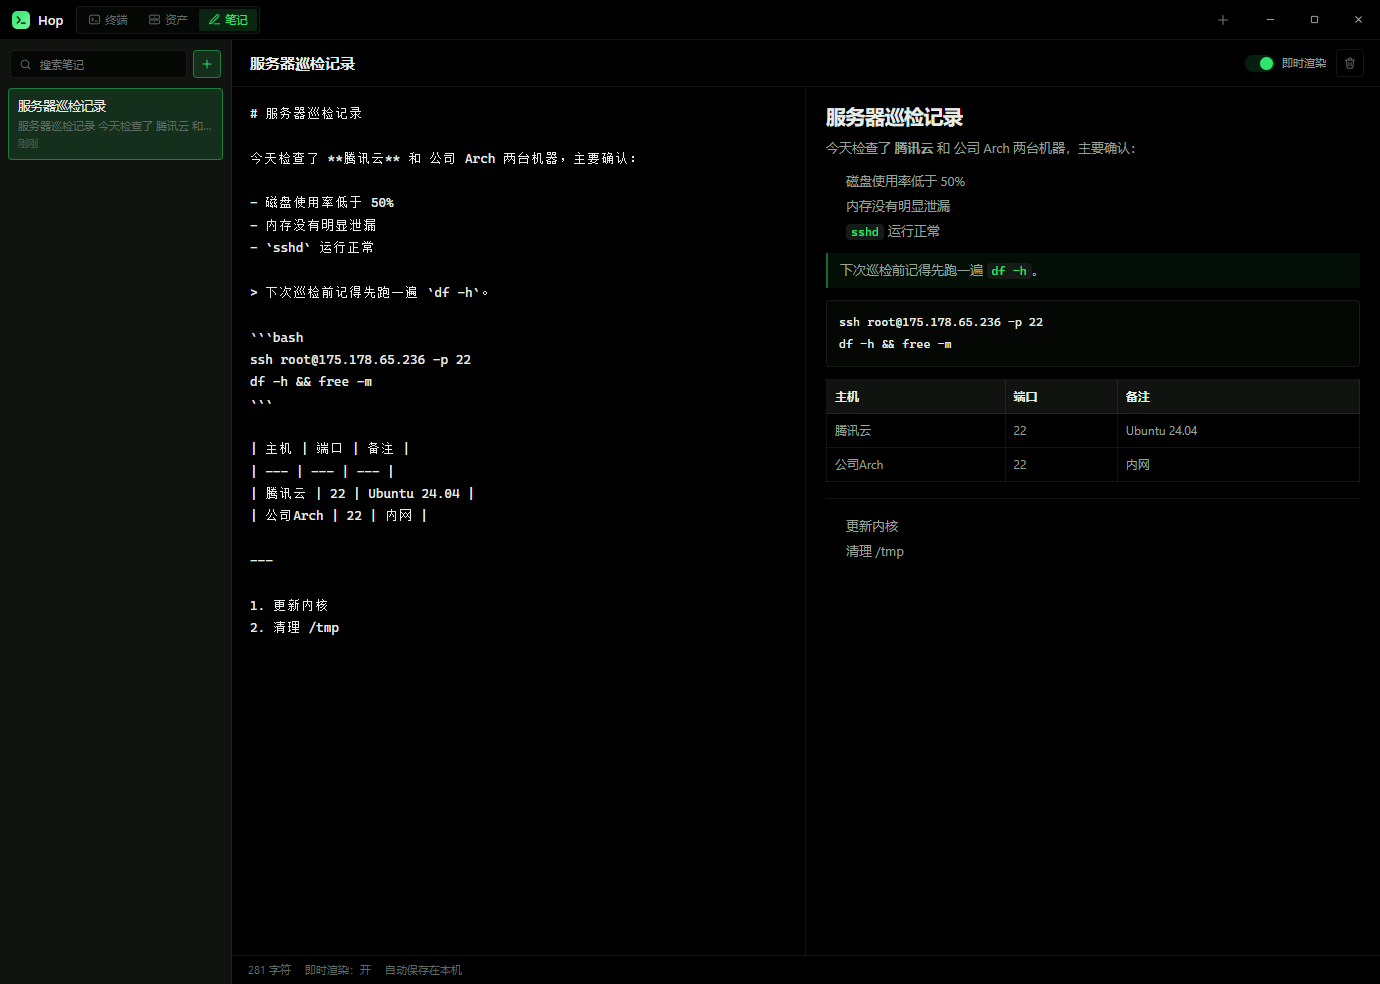
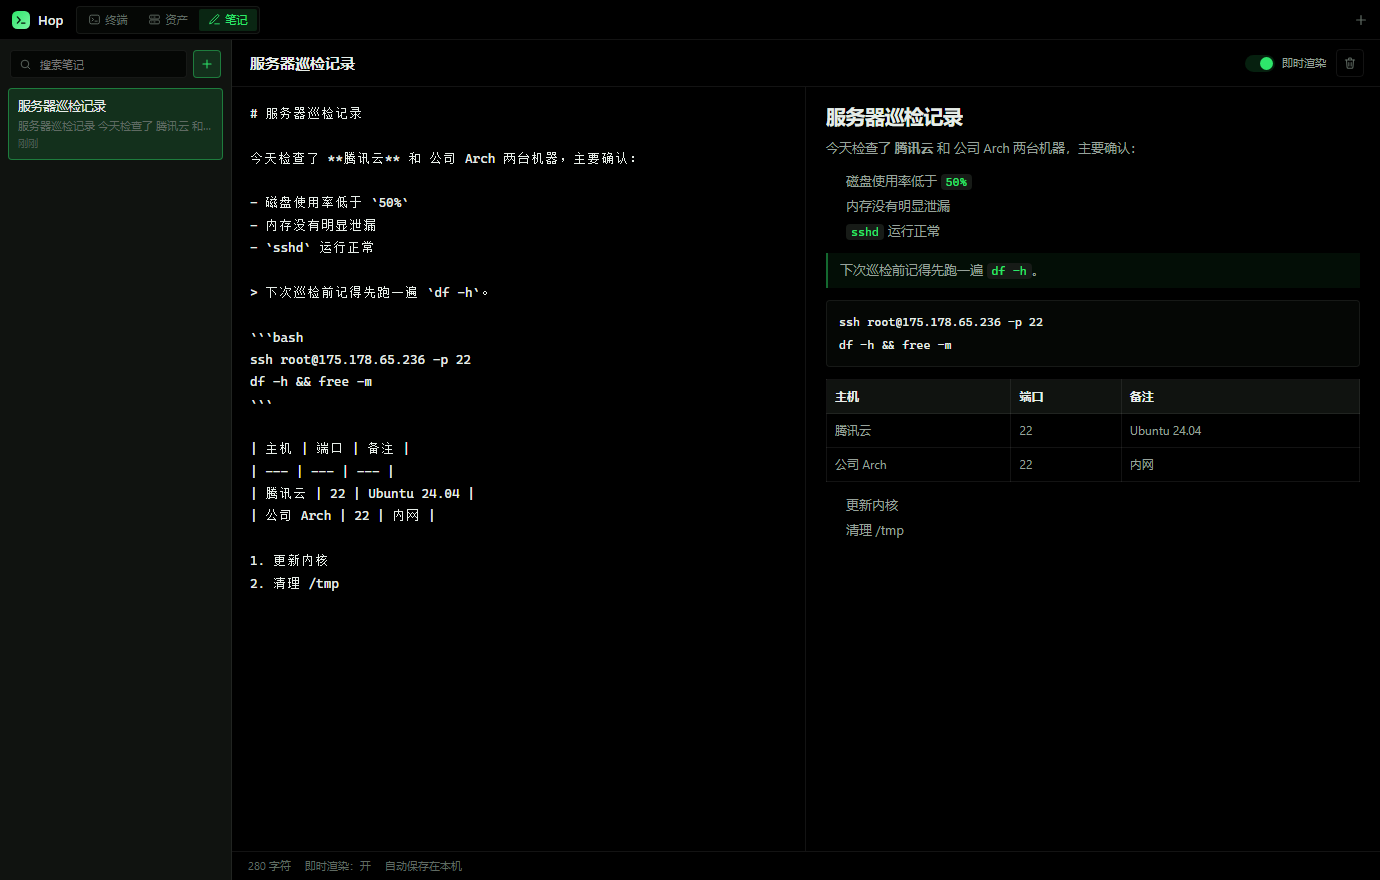
fix(files): 跟随终端目录改用按键输入缓冲，修好提示符干扰；笔记标题留空占位

diff --git a/src/components/TerminalPane.tsx b/src/components/TerminalPane.tsx
@@ -175,8 +175,28 @@ export function TerminalPane({ session, host, active }: TerminalPaneProps) {
     const observer = new ResizeObserver(() => refit());
     observer.observe(container);
 
+    /* 记住这一行手敲的内容：提示符、回显都不可靠，只有按键输入最准 */
+    let typedBuf = '';
+
     const dataDisposable = term.onData((data) => {
       transportRef.current?.sendInput(data);
+
+      for (const ch of data) {
+        if (ch === '\r' || ch === '\n') {
+          const current = (hostRef.current && terminalCwd.get(hostRef.current.id)) || '~';
+          const next = inferCd(current, typedBuf);
+          if (next && hostRef.current) terminalCwd.set(hostRef.current.id, next);
+          typedBuf = '';
+        } else if (ch === '\u007f' || ch === '\b') {
+          typedBuf = typedBuf.slice(0, -1);
+        } else if (ch === '\u0003' || ch === '\u0015' || ch === '\u001b') {
+          /* Ctrl+C / Ctrl+U / 控制序列：整行作废 */
+          typedBuf = '';
+        } else if (ch >= ' ') {
+          typedBuf += ch;
+        }
+      }
+      if (typedBuf.length > 400) typedBuf = typedBuf.slice(-400);
     });
 
     /* 选中即复制：终端里拖选一下就能直接粘贴到别处；静默复制，不出提示 */
@@ -187,16 +207,6 @@ export function TerminalPane({ session, host, active }: TerminalPaneProps) {
 
     term.attachCustomKeyEventHandler((event) => {
       if (event.type !== 'keydown') return true;
-
-      /* 回车前从输入行里认出 cd，用于「文件栏跟随终端目录」 */
-      if (event.key === 'Enter' && !event.ctrlKey && !event.metaKey && !event.shiftKey) {
-        const buffer = term.buffer.active;
-        const line = buffer.getLine(buffer.baseY + buffer.cursorY)?.translateToString(true) ?? '';
-        const typed = line.slice(0, buffer.cursorX);
-        const current = (hostRef.current && terminalCwd.get(hostRef.current.id)) || '~';
-        const next = inferCd(current, typed);
-        if (next && hostRef.current) terminalCwd.set(hostRef.current.id, next);
-      }
 
       const mod = event.ctrlKey || event.metaKey;
       const key = event.key.toLowerCase();

diff --git a/src/components/NotesPage.tsx b/src/components/NotesPage.tsx
@@ -128,6 +128,7 @@ export function NotesPage() {
               <input
                 className="notes__title"
                 value={active.title}
+                placeholder="未命名笔记"
                 aria-label="笔记标题"
                 onChange={(event) =>
                   noteStore.update(active.id, { title: event.target.value.slice(0, 80) })

diff --git a/src/store/notes.ts b/src/store/notes.ts
@@ -67,7 +67,7 @@ export const noteStore = {
     const now = Date.now();
     const note: Note = {
       id: `note_${now.toString(36)}${Math.random().toString(36).slice(2, 6)}`,
-      title: '未命名笔记',
+      title: '',
       body: '',
       createdAt: now,
       updatedAt: now,
